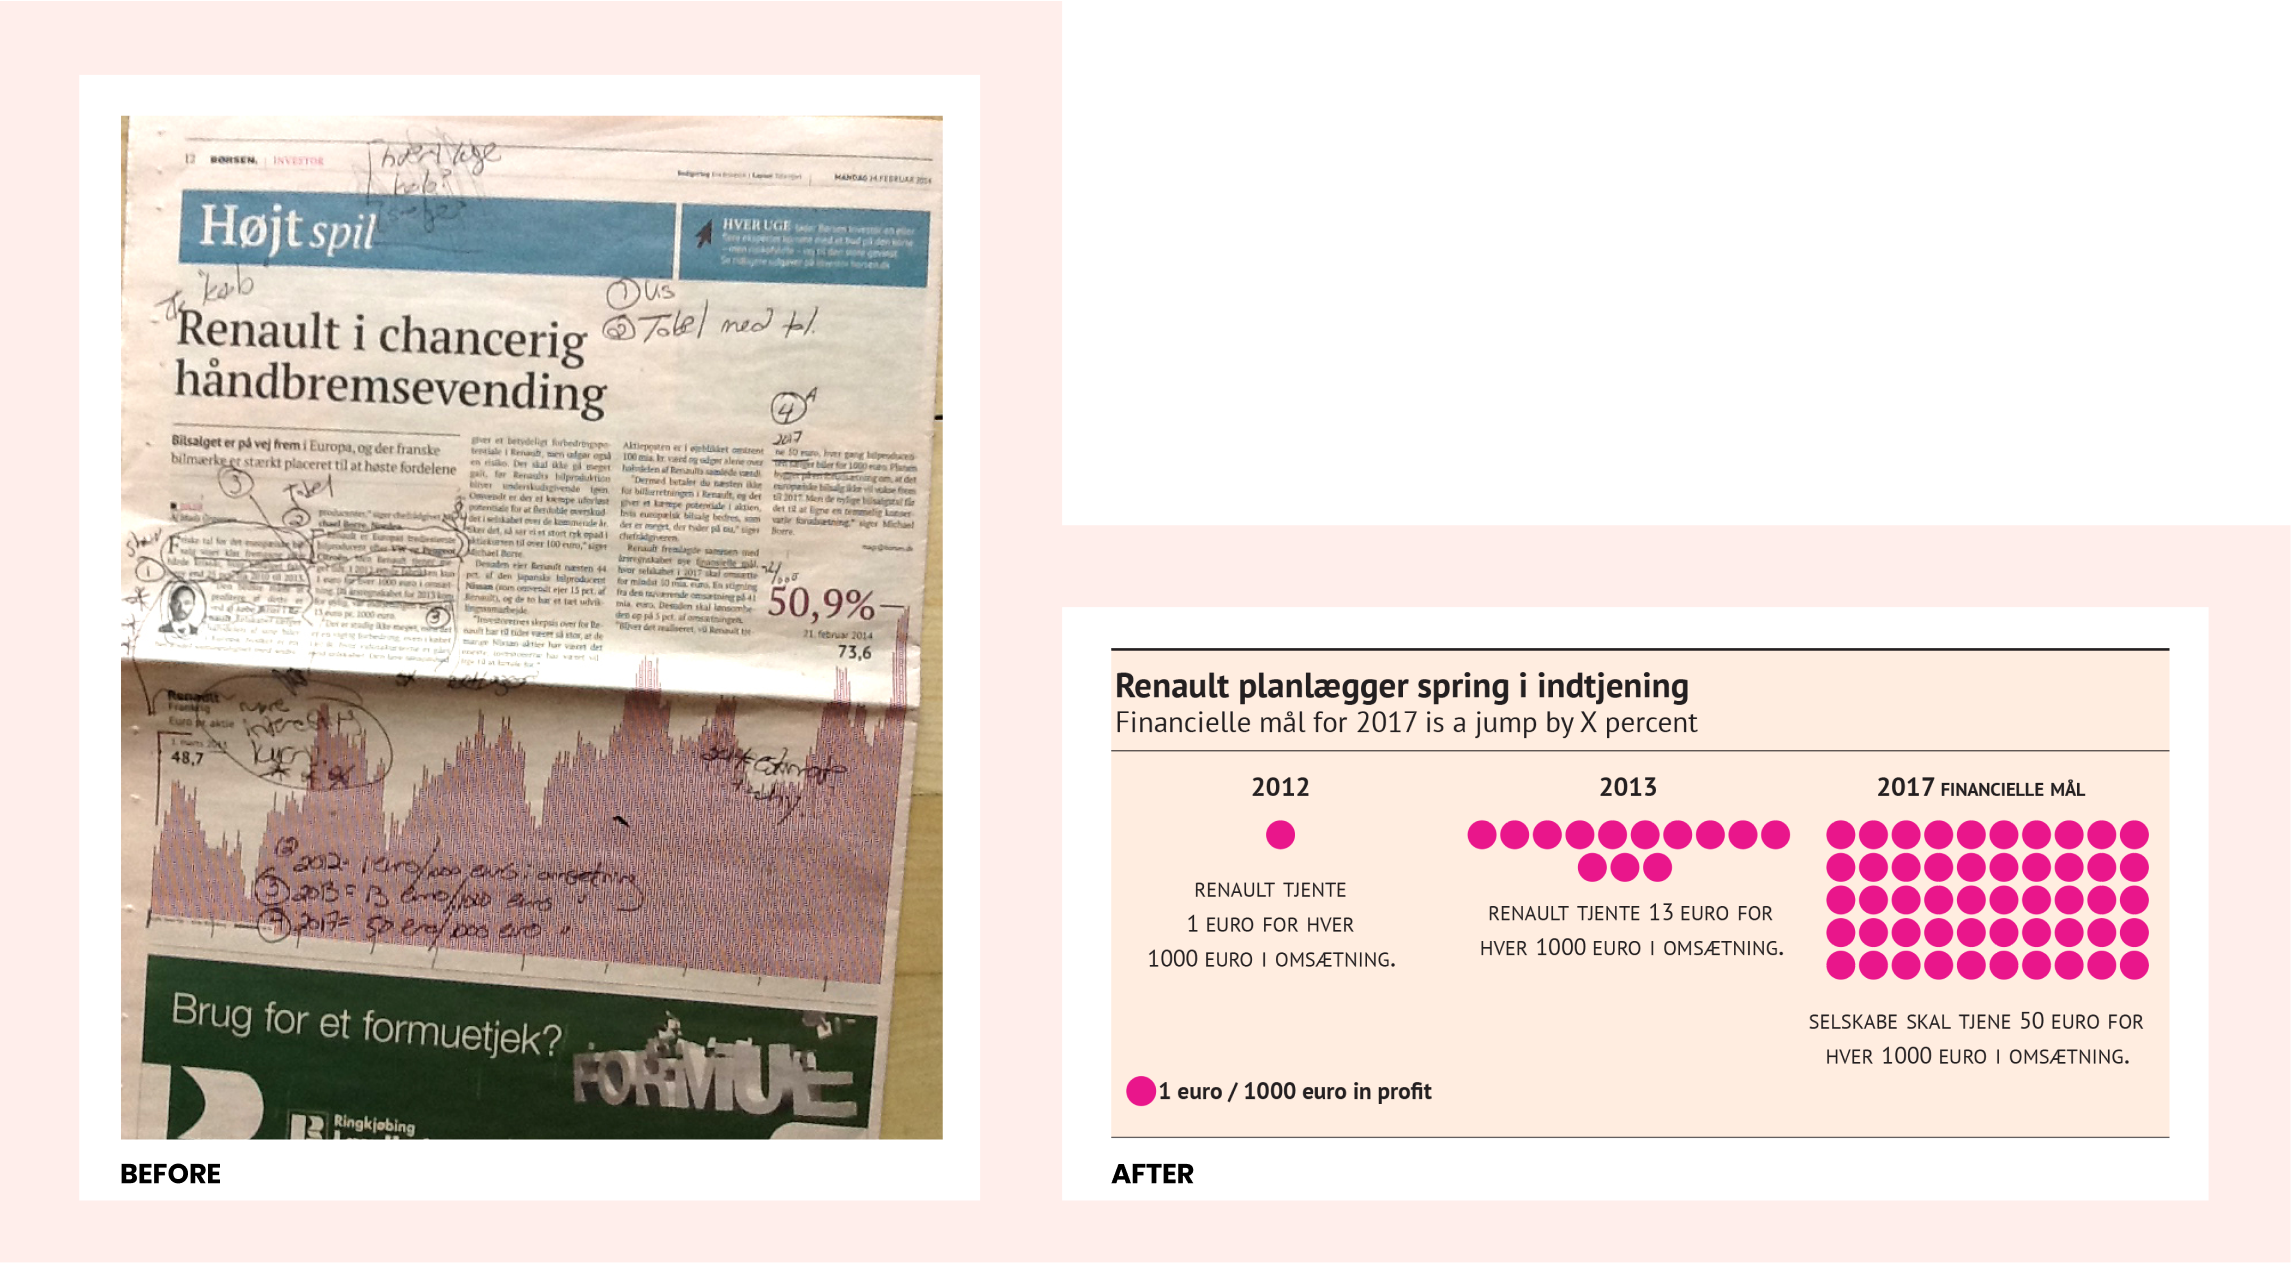
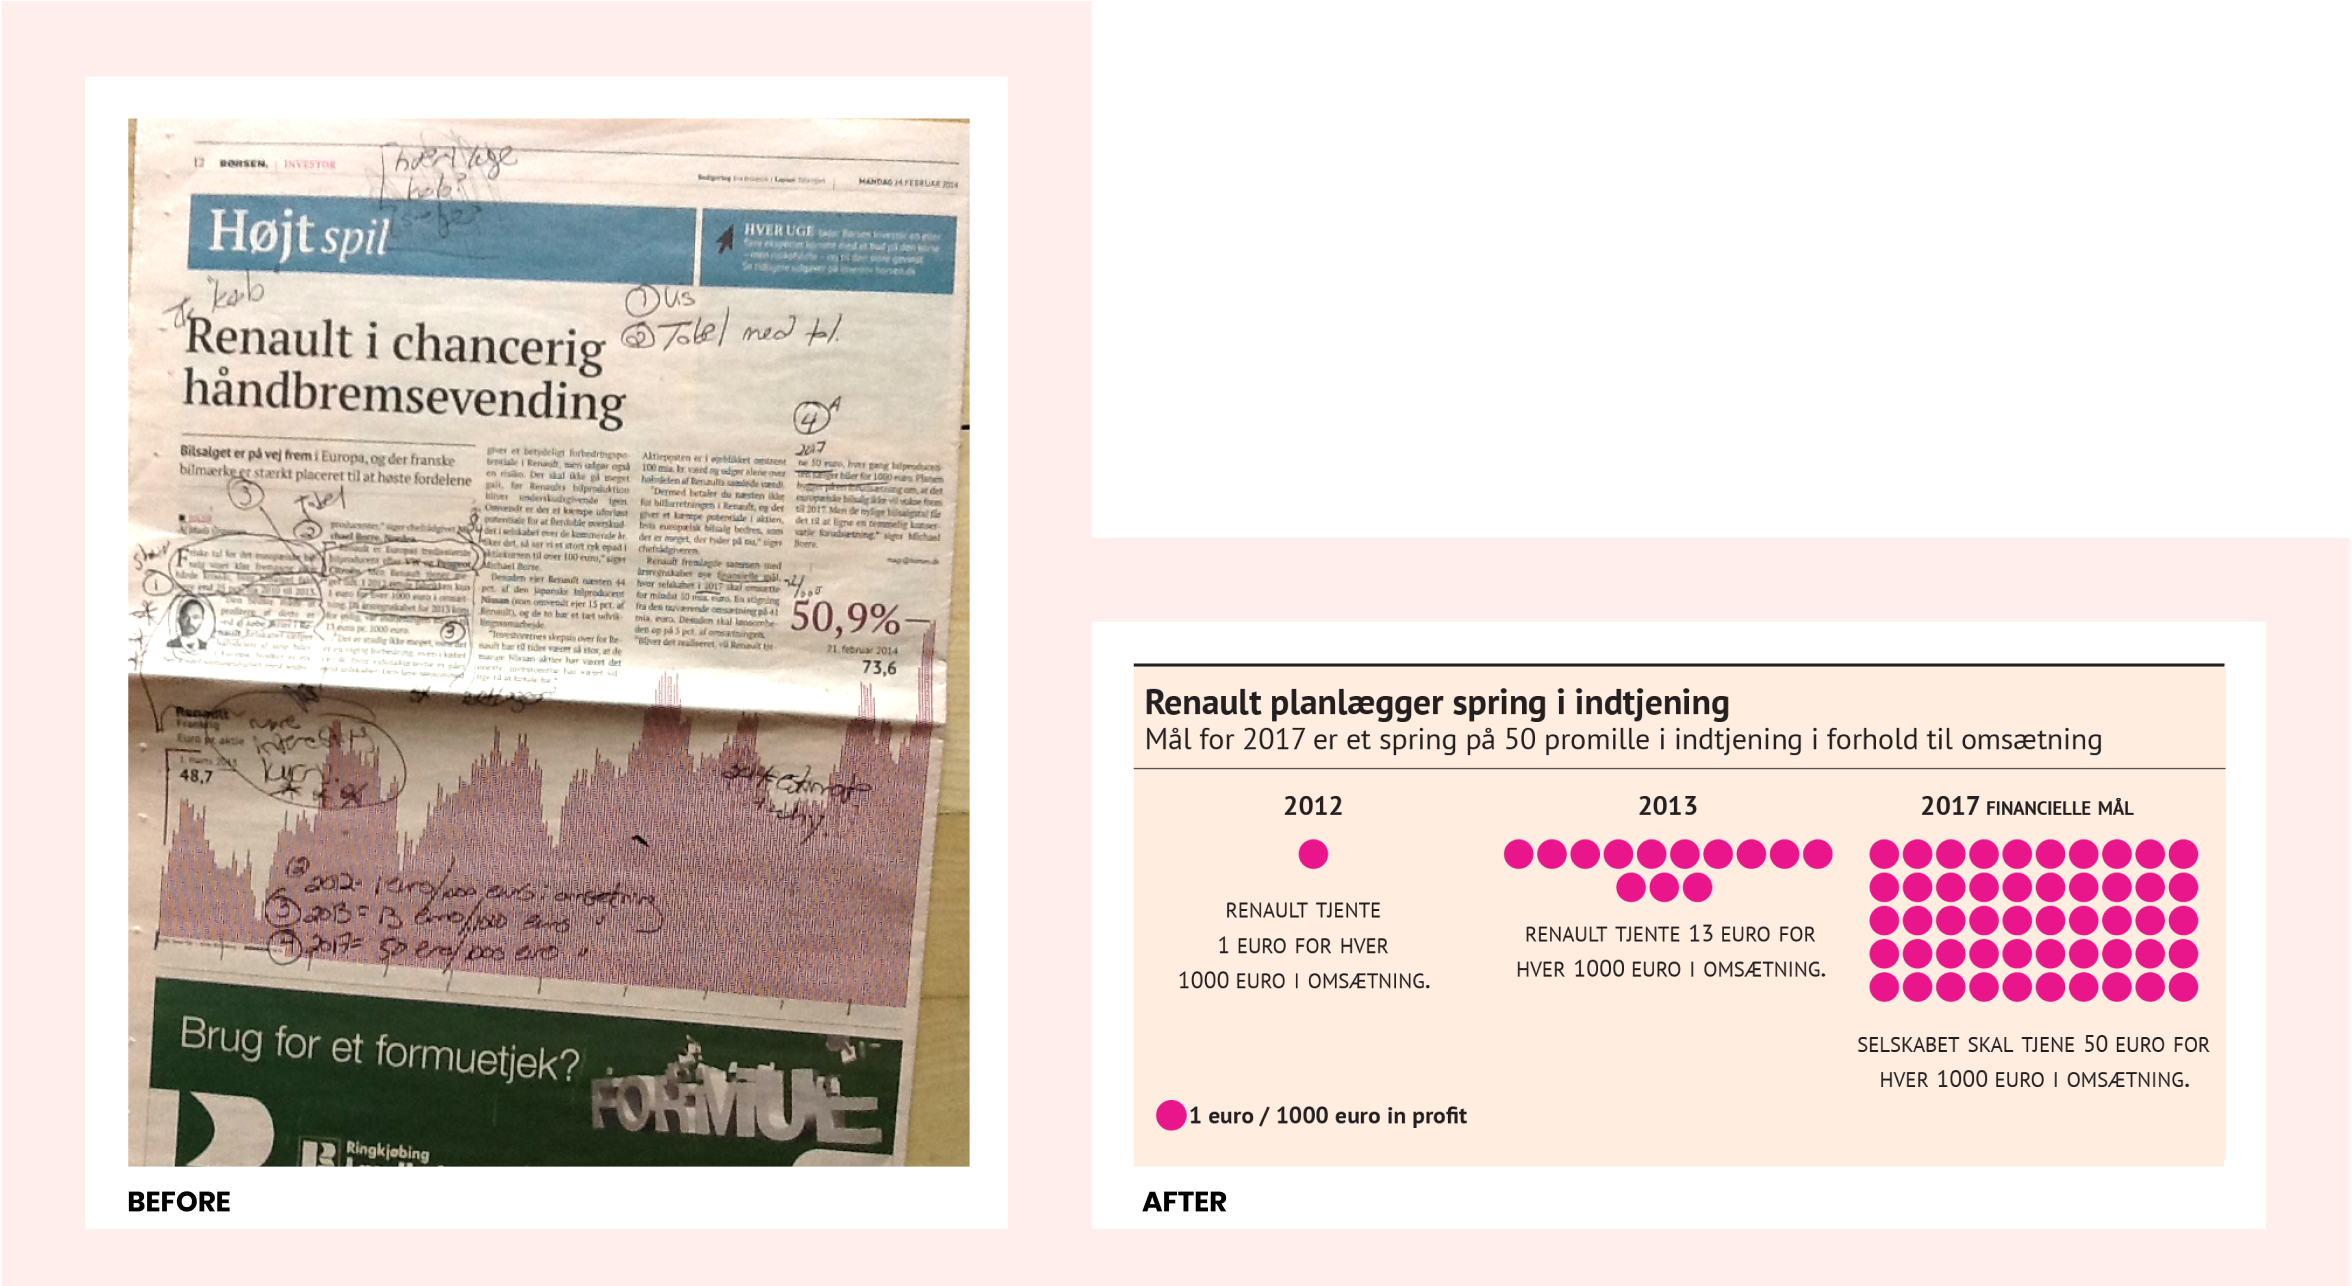
more Borsen revise texts

diff --git a/case-study-borsen.html b/case-study-borsen.html
@@ -49,7 +49,7 @@
     <div style="height: 60px;"> </div>
     <div class="case-text-header">
       <h5 class="">Børsen</h5>
-      <div class="subhead">Business and Financial newspaper headquartered in Copenhagen, Denmark</div>
+      <div class="subhead">Business and finance newspaper headquartered in Copenhagen, Denmark</div>
     </div>
     <!-- Below top image -->
     <!-- <div class="banner-case" style="margin: 0px 167px 25px 67px;height: 60vh; background-image: url('images/borsen-2.png');">
@@ -65,20 +65,19 @@
           Business Case
         </div>
         <p class="p-margin-top-none">
-          Leading Danish business/financial newspaper in Denmark– read by industry leaders, and used to make
-          actionable decisions. Their need was to improve the usability of their information graphics.
+          Børsen is read by industry leaders, and used to make
+          actionable decisions. Their need was to improve the usability of their information graphics by making them easier to understand in a shorter amount of time.
         </p>
         <div class="headlines-in-banner">
           The Challenge
         </div>
         <p class="p-margin-top-none">
           Børsen's readers are busy. They don't have a lot of time to read the paper, yet it is an important part
-          of their day. Information needs to be understood quickly. Børsen has A LOT of information graphics, as they
-          often help tell a story of a thousand words in 5-10 seconds.
+          of their day. Information needs to be understood quickly. Børsen has a lot of information graphics, that help tell a story of a thousand words in five to ten seconds.
         </p>
         <p>
-          The graphics at the time were difficult to understand. They were represented in units that didn't match.
-          Units of measure were hard to find. The story was confused.
+          The graphics at the time were difficult to understand. They were represented in units that didn't match,
+          units of measure were hard to find and, graphic forms were not always make in the correct form. The story was confused.
         </p>
       </div>
     </div>
@@ -96,8 +95,10 @@
         </div>
         <p class="p-margin-top-none">A review of the process of how graphics were being created from start to end was to be made so that there could be new guidelines on how to
           create a usable graphic that was easy to understand. </p>
-        <p> The ultimate goal was to find a way to make sure the graphic was written and designed with information that made sense and was
-          easy to understand. </p>
+        <p> The ultimate goal was to find a way to make sure the graphic was written and designed with information that made sense. And followed a set of rules for creating
+          the graphic in a consistent design style.
+
+        </p>
       </div>
     </div>
 <div class="spacing-50px"></div>
@@ -107,8 +108,9 @@
           The Solution
         </div>
         <p class="p-margin-top-none">
-          Sparing with top management guidelines and processes were setup from the start of a writer requesting a graphic all the way until
-          it would be proofread before publication.
+         After evaluations and meetings with top management, created
+         guidelines and processes to aid in the creation of a graphic–
+         from the starting stage of a writer requesting a graphic to it being proofread before publication.
         </p>
         <p> &#10003; Improved communication and working processes between art and editorial departments </p>
         <p> &#10003; Reworked paper’s information graphics and created style guide.</p>
@@ -119,17 +121,45 @@
           <p> <span class="bold">3.</span> Present graphics that are quick and easy to understand.</p>
         </div>
         <p> &#10003; Use typography and line styles and weights to communicate multiple levels of information.</p>
-      </div>
-      <div class="sample-box-b">
+
         <div class="headlines-in-banner">
           The Contributors
         </div>
         <p><span class="semi-bold">Managing Editor </span> Jørgen Andresen </p>
         <p><span class="semi-bold">Art Director </span> Marianne Bahl</p>
         <p><span class="semi-bold">Design & Concept Development </span>Marci Papineau Gottlieb</p>
+
+      </div>
+
+
+      <div class="sample-box-b">
+
+        <div class="headlines-in-banner">
+          My Roll
+        </div>
+        <p>
+          I spent the first days watching the work of the graphics department and how they interacted with the other parts of the paper.
+          I reviewed the contents of the graphics, and made notes on where improvements were needed. I held meetings with the senior levels of art and editorial departments to discuss
+          my findings.
+          I then worked on creating the new guideline– both visually and editorially.
+          There were meetings back and forth to discuss progress.
+          The project was completed my my delivery of a detailed style guide and Illustrator files that could be used as a skeleton.
+        </p>
+
+
+
+        <!-- <div class="headlines-in-banner">
+          The Contributors
+        </div>
+        <p><span class="semi-bold">Managing Editor </span> Jørgen Andresen </p>
+        <p><span class="semi-bold">Art Director </span> Marianne Bahl</p>
+        <p><span class="semi-bold">Design & Concept Development </span>Marci Papineau Gottlieb</p> -->
+
         <div class="headlines-in-banner">Skills Utilized</div>
         <p class="medium">
+          <span>&#187;</span> Information Graphic Design <br>
           <span>&#187;</span> Graphic Design <br>
+
         </p>
         <div class="headlines-in-banner" style="margin-top:30px;">Tech Used</div>
         <p class="medium">
@@ -155,9 +185,15 @@
 
           <div class="banner-case" style="height: 548px; background-image: url('images/borsen-spread-2.jpg');">
           </div>
-          <!-- <div class="caption" style="text-align: left;">
-            tktkt Part of the 16 page style guide to help create the graphic. Some of what it shows correct spacing, colors, and styles.
-          </div> -->
+        <div class="spacing-25px"></div>
+
+        <!-- <div class="caption" style="text-align: left;">
+          <span class="bold" style="text-transform: uppercase;">Above style guidelines to creating a graphic </span> <br>
+          Part of the 16 page style guide to help create the graphic. Some of what it shows correct spacing, colors, and styles.
+        </div>
+
+                  <div class="spacing-25px"></div> -->
+
         </div>
         <div class="spacing-25px"></div>
         <!-- sample spread from guide -->
@@ -166,39 +202,35 @@
         <!-- <div class="process-pic">
           <img class="height-600px" src="images/borsen-spread.jpg" alt="">
         </div> -->
-<div class="spacing-25px"></div>
+        <div class="spacing-25px"></div>
         <div class="caption" style="text-align: left;">
-          <span class="bold" style="text-transform: uppercase;">Above you can see some of the pages of the style guide. </span> <br>
-          Part of the 16 page style guide to help create the graphic. Some of what it shows correct spacing, colors, and styles.
+          <span class="bold">Above </span>you can see some of the pages of the style guide<br>
+          <!-- Part of the 16 page style guide to showing how correct spacing, colors, and styles. -->
         </div>
       </div>
     </div>
 
 <div class="spacing-50px"></div>
 
-
-
     <div class="portfolio-banner">
       <div class="case-text-box">
         <div class="headlines-in-banner">
           New kinds of graphics
         </div>
-        <p>There were new ways to visualize data at the end. See here for a few examples.</p>
+        <p>The project ended with new ways to visualize data at the end. See here for a few examples.</p>
 
         <div>
           <div class="banner-case" style="height: 420px; background-image: url('images/borsen-renault.png');">
           </div>
           <div class="spacing-25px"></div>
           <div class="caption" style="text-align: left;">
-            <span class="bold" style="text-transform: uppercase;">Above right shows a new way to add value to a story with a new type of graphic.</span> <br>
-            The older graphic (on the left) had eye catching but the story wasn't explained very well. <br> It said there had been some ups and downs–
-            ending high.
-            <br> But the fact that the end of the graphic is an estimate can't easily be seen and there is
-              easy way to understand the time frame of the graphic. <br>
-            <br> The graphic on the right is both quick and easy to understand. <br>
-             <!-- Adding the years on the top starts to tell more.<br> -->
+            <span class="bold" style="text-transform: uppercase;">Above right (after): a new way to tell a story</span> <br>
+            The older graphic (BEFORE) was eye catching but the story wasn't explained well. <br> It showed there had been some ups and downs–
+            ending high,
+            but the fact that the end of the graphic is only a projection is not apparent. <br>
+            <br> The graphic on the right (AFTER) is both quick and easy to understand. <br>
             There is a key on the bottom telling the quantity of one circle,
-            and you get the answer to the story in a few seconds. <br>
+            and you get the answer to the story in a few seconds.
              If you are excited by the graphic you would dive into the story.
           </div>
         </div>
@@ -226,7 +258,8 @@
           <div class="spacing-25px"></div>
           <div class="caption"">
           <span class=" bold" style="text-transform: uppercase;">Lollipop Chart</span> <br>
-            This chart type can also use multiple ways to show data, and can be more compelling than a traditional bar chart.
+          This lollipop chart adds a 3rd dimension by using the size of the circle to add another level of infomation to the chart.
+            It can be a more compelling than a traditional bar chart.
           </div>
         </div>
         <div class="spacing-25px"></div>

diff --git a/case-study-editorial.html b/case-study-editorial.html
@@ -50,7 +50,7 @@
     <!-- below spacer above image -->
     <div style="height: 60px;"> </div>
     <div class="case-text-header">
-        <h5 class="">Magazines & Newspapers in New York City and Copenhagen</h5>
+        <h5 class="">Magazines & newspapers headquartered in New York City and Copenhagen</h5>
         <div class="subhead">Ingeniøren, Modern Bride, Money, New York, Oprah, Penge & Privatøkonomi, Teen People, Vogue Knitting, YM, YM Prom, and more
         </div>
             <div class="banner-case" style="height: 40vh; background-image: url('images/magazines-10.png');">
